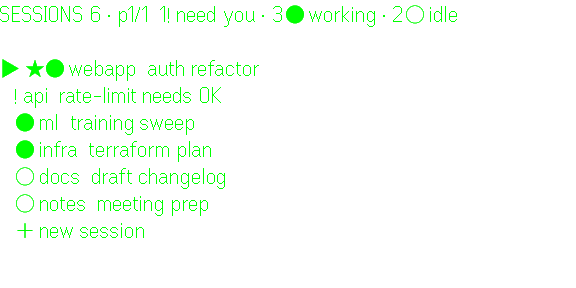
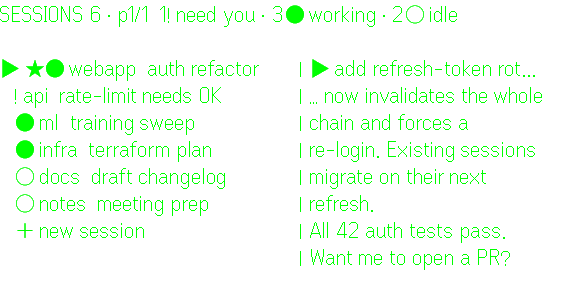
v1.0.39: preview the highlighted session beside the list
The list screen now uses the empty right half of the display: a second,
overlapping text column shows the highlighted session's last prompt and the
end of its reply (or "needs you" for a waiting session). List rows are
clipped to make room.

- AppGlasses: columns [{0,576},{300,276}]; column 2 carries only the list
  preview and is blanked on every other screen and while asleep, because
  even-toolkit's updateColumns only writes the entries it is given.
- store: per-session preview cache on the existing conversation endpoint
  (etag), fetched once the swipes settle (600 ms, longer than even-toolkit's
  350 ms same-direction debounce) and re-checked on each list poll; only
  while the list is showing and only for a session that is on it. No backend
  change.
- store: the list selection is now fully store-owned (listSel + listPos,
  reconciled whenever the pane list changes).
- Fix: the working indicator used U+22EF, which is not in the G2 font and
  drew blank; it is now the same filled dot the list uses.
- Screenshot script and demo data updated; store screenshots regenerated.

Claude-Session: https://claude.ai/code/session_01LxitKjonN8hwyjPFyqMhJr

diff --git a/glasses/src/store.ts b/glasses/src/store.ts
@@ -3,7 +3,7 @@
 //   view (scroll live pane, or MENU mode if the pane is asking) -> listening (mic) -> confirm (send).
 import { listPanes, paneScreen, paneConversation, streamPane, sendToPane, sendKeys, translate, transcribe, resolveFolder, newSession, listWindows, health, type Pane, type Turn } from './api'
 import { GlassBridgeSource } from 'even-toolkit/stt'
-import { getTextWidth } from 'even-toolkit/pretext'
+import { getTextWidth, truncateGlassText } from 'even-toolkit/pretext'
 import { getIdleSleepSec, getWakeOnChange, isConfigured, getPins, setPins } from './config'
 
 export type Phase = 'view' | 'listening' | 'confirm'
@@ -21,6 +21,8 @@ export interface AppState {
   loading: boolean
   error: string | null
   listSel: string   // highlighted list row, by pane id (see listRow); '' = none yet -> the top row at launch
+  listPos: number   // the row it was last on — where the highlight stays if that session disappears
+  preview: string[] // the highlighted session's latest exchange, shown beside the list (pre-wrapped)
   activePaneN: string | null
   activeLabel: string
   activeIsClaude: boolean
@@ -61,7 +63,7 @@ export interface AppState {
 }
 
 let state: AppState = {
-  panes: [], loading: true, error: null, listSel: '',
+  panes: [], loading: true, error: null, listSel: '', listPos: 0, preview: [],
   activePaneN: null, activeLabel: '', activeIsClaude: false, activeCwd: '',
   lines: [], menu: null, menuPhase: 'read', menuBody: [], menuScroll: 0, menuFreeText: false, scroll: 0, atBottom: true, working: false, activity: '', voiceOn: true, voiceChecked: [], asleep: false,
   phase: 'view', draft: '', draftKind: null, busy: false, status: '', typingText: '', draftLines: [], confirmScroll: 0, lastCost: 0, totalCost: 0,
@@ -95,13 +97,74 @@ export function idleTick() {
 // session between the swipe that highlights it and the tap that opens it.
 const NEW_ROW = '+'  // pseudo-id of the "＋ new session" row (always last)
 export function listRows(s: AppState): string[] { return [...s.panes.map((p) => p.n), NEW_ROW] }
-// Row of the anchored selection. If that session is gone (or nothing is chosen yet), stay at
-// `fallback` — the row the highlight was last on.
-export function listRow(s: AppState, fallback = 0): number {
+// Row of the anchored selection. If that session is gone (or nothing is chosen yet), stay on the
+// row the highlight was last on.
+export function listRow(s: AppState): number {
   const rows = listRows(s), i = rows.indexOf(s.listSel)
-  return i >= 0 ? i : Math.max(0, Math.min(fallback, rows.length - 1))
+  return i >= 0 ? i : Math.max(0, Math.min(s.listPos, rows.length - 1))
 }
-export function selectRow(n: string) { if (n !== state.listSel) set({ listSel: n }) }
+export function selectRow(n: string) {
+  if (n !== state.listSel) set({ listSel: n, listPos: Math.max(0, listRows(state).indexOf(n)) })
+  showPreview()
+}
+// A new pane list: keep the selection on a row that exists — the same session if it is still
+// listed, else whatever now sits on the row it was on — so `listSel` always names the highlighted
+// row (the preview and the pin menu act on it). With no sessions yet it stays unset, so the list
+// still opens on the first session when they arrive.
+function withSel(panes: Pane[]): Partial<AppState> {
+  const rows = [...panes.map((p) => p.n), NEW_ROW]
+  let i = rows.indexOf(state.listSel)
+  if (i < 0) { if (!panes.length) return { panes }; i = Math.max(0, Math.min(state.listPos, rows.length - 1)) }
+  return { panes, listSel: rows[i], listPos: i }
+}
+
+// --- list preview: the highlighted session's latest exchange, drawn beside the list ---
+// Shown from a per-session cache at once, then re-checked (cheap: etag) once the swipes settle and
+// on every list poll. The settle delay is longer than the fastest swipe cadence (even-toolkit drops
+// same-direction repeats inside 350ms), so scrolling down the list costs one request, not one per row. Frontend-only — it reuses the conversation endpoint, so no backend update.
+const PREVIEW_PX = 236  // text width of the preview column (screens.ts listPreview / AppGlasses columns)
+const PREVIEW_ROWS = 8  // the lines beside the list rows, under the header
+const NO_PREVIEW: string[] = []
+const previewCache = new Map<string, { etag: string | null; lines: string[] }>()
+let previewTimer: ReturnType<typeof setTimeout> | null = null
+// The prompt (one clipped line), then the END of the reply to it — where the session stands now,
+// which is what you triage on (a finished session's conclusion, or its question to you).
+function previewOf(turns: Turn[], working: boolean): string[] {
+  let u = -1
+  for (let i = turns.length - 1; i >= 0; i--) if (turns[i].role === 'user') { u = i; break }
+  const head = u >= 0 ? [truncateGlassText('▶ ' + turns[u].text.split('\n')[0], PREVIEW_PX)] : []
+  const paras = turns.slice(u + 1).filter((t) => t.role === 'assistant').flatMap((t) => t.text.split('\n')).filter((l) => l.trim())
+  if (working) paras.push('● working…')
+  // Fill the space from the END of the reply: whole paragraphs while they fit, then the tail of the
+  // next one, marked … so it doesn't read as the start of a sentence.
+  const room = PREVIEW_ROWS - head.length
+  let reply: string[] = []
+  for (const para of paras.reverse()) {
+    const w = wrapPx(para, '', PREVIEW_PX), free = room - reply.length
+    if (w.length <= free) { reply = [...w, ...reply]; continue }
+    if (free > 0) { const tail = w.slice(-free); tail[0] = '… ' + tail[0]; reply = [...tail, ...reply] }
+    break
+  }
+  return [...head, ...reply]
+}
+function showPreview() {
+  const n = state.listSel
+  const lines = previewCache.get(n)?.lines ?? NO_PREVIEW
+  if (lines !== state.preview) set({ preview: lines })
+  if (previewTimer) clearTimeout(previewTimer)
+  // only while the list is on screen, and only for a session that is on it (a request for a pane
+  // that is gone would return a 4xx)
+  if (!isConfigured() || state.activePaneN || state.asleep || !state.panes.some((p) => p.n === n)) return
+  const gen = fleetGen
+  previewTimer = setTimeout(() => {
+    paneConversation(n, previewCache.get(n)?.etag).then((r) => {
+      if (r.notModified || gen !== fleetGen) return
+      const lines = previewOf(r.turns, r.working)
+      previewCache.set(n, { etag: r.etag, lines })
+      if (state.listSel === n) set({ preview: lines })
+    }).catch(() => {})
+  }, 600)
+}
 
 const ORDER: Record<string, number> = { waiting: 0, working: 1, done: 2, idle: 3, other: 4 }
 // Panes that went working -> idle and haven't been opened yet: they stay pinned in a top "done"
@@ -134,7 +197,7 @@ export function togglePin(n: string) {
 function repaintPanes() {
   const panes = decorateAndSort(state.panes)
   const sig = JSON.stringify(panes)
-  if (sig !== lastPanesSig) { lastPanesSig = sig; set({ panes }) }
+  if (sig !== lastPanesSig) { lastPanesSig = sig; set(withSel(panes)) }
 }
 let fleetGen = 0 // bumped on a backend switch so an in-flight poll from the OLD source is discarded
 export async function refresh() {
@@ -148,6 +211,7 @@ export async function refresh() {
     if (gen !== fleetGen) return // source changed while this poll was in flight -> stale namespace
     const present = new Set(raw.map((p) => p.n))
     for (const n of finished) if (!present.has(n)) finished.delete(n)  // pane gone -> drop the mark
+    for (const n of previewCache.keys()) if (!present.has(n)) previewCache.delete(n)
     for (const p of raw) {
       if (prevStatus.get(p.n) === 'working' && p.status === 'idle') finished.add(p.n)  // just finished -> pin as "done"
       else if (p.status !== 'idle') finished.delete(p.n)                                // re-activated -> no longer "done"
@@ -159,9 +223,10 @@ export async function refresh() {
     prevStatus = new Map(raw.map((p) => [p.n, p.status]))
     const panes = decorateAndSort(raw)
     const sig = JSON.stringify(panes)
-    if (sig !== lastPanesSig) { lastPanesSig = sig; set({ panes, loading: false, error: null }) }  // skip identical re-push
+    if (sig !== lastPanesSig) { lastPanesSig = sig; set({ ...withSel(panes), loading: false, error: null }) }  // skip identical re-push
     else if (state.loading || state.error) set({ loading: false, error: null })
     health().then((h) => set({ voiceOn: h.voice, voiceChecked: h.checked || [] })).catch(() => {})
+    showPreview()  // keep the highlighted session's preview current
   } catch (e) { if (gen === fleetGen) set({ loading: false, error: String(e) }) }
 }
 
@@ -298,19 +363,19 @@ function cleanLines(raw: string[]): string[] {
 // so the firmware re-wrapped it on screen, leaving a stray short remainder ("wrapped early
 // sometimes"). 548 matches the answer view's proven-good option width and keeps a safe margin.
 const WRAP_PX = 548
-function wrapPx(line: string, indent = ''): string[] {
-  if (getTextWidth(line) <= WRAP_PX) return [line]
+function wrapPx(line: string, indent = '', width = WRAP_PX): string[] {
+  if (getTextWidth(line) <= width) return [line]
   const out: string[] = []
   let cur = ''
   for (const w of line.split(' ')) {
     const trial = cur === '' ? w : cur + ' ' + w
-    if (getTextWidth(trial) <= WRAP_PX) { cur = trial; continue }
+    if (getTextWidth(trial) <= width) { cur = trial; continue }
     if (cur !== '') out.push(cur)
-    if (getTextWidth(indent + w) > WRAP_PX) {
+    if (getTextWidth(indent + w) > width) {
       let r = indent + w
-      while (getTextWidth(r) > WRAP_PX) {
+      while (getTextWidth(r) > width) {
         let lo = 1, hi = r.length, k = 1
-        while (lo <= hi) { const mid = (lo + hi) >> 1; if (getTextWidth(r.slice(0, mid)) <= WRAP_PX) { k = mid; lo = mid + 1 } else hi = mid - 1 }
+        while (lo <= hi) { const mid = (lo + hi) >> 1; if (getTextWidth(r.slice(0, mid)) <= width) { k = mid; lo = mid + 1 } else hi = mid - 1 }
         out.push(r.slice(0, k)); r = indent + r.slice(k)
       }
       cur = r
@@ -403,7 +468,7 @@ function buildView() {
   const raw = [...convoLines]
   if (state.working) {
     if (raw.length) raw.push('')
-    raw.push(...wrapPx(state.activity ? '⋯ ' + state.activity : '⋯ working…'))
+    raw.push(...wrapPx(state.activity ? '● ' + state.activity : '● working…'))  // ● = working, as in the list (⋯ is not in the G2 font)
   }
   const lines = raw.length ? raw : ['(no replies yet)']
   const ms = maxScroll(lines.length, VIEW_SLOTS)
@@ -559,6 +624,7 @@ export function closePane() {
     if (finished.delete(state.activePaneN)) repaintPanes()
   }
   closeStream(); stopAnswers(); stopMic(); set({ activePaneN: null, phase: 'view' })
+  showPreview()  // back on the list: show what the session we just left says now
 }
 
 // Switching backend (tmux <-> herdr) changes the pane-id namespace, so the open pane view, the
@@ -571,8 +637,9 @@ export function resetForSourceChange() {
   finished.clear()
   prevStatus = new Map()
   paneMem.clear()
+  previewCache.clear()
   lastPanesSig = ''
-  set({ panes: [], loading: true, error: null, listSel: '' })
+  set({ panes: [], loading: true, error: null, listSel: '', listPos: 0, preview: NO_PREVIEW })
   refresh()
 }
 
@@ -796,7 +863,7 @@ export async function sendNow() {
   try {
     await sendToPane(n, state.draft, true)
     // "working…" only applies to a Claude pane (it's processing your prompt); a shell pane has no such
-    // state, so setting working:true + buildView would clobber its live screen with a permanent '⋯'.
+    // state, so setting working:true + buildView would clobber its live screen with a permanent '● working…'.
     const claude = state.activeIsClaude
     set({ phase: 'view', atBottom: true, working: claude, busy: false, status: '', draft: '', draftKind: null })
     if (claude) buildView()

diff --git a/glasses/src/screens.ts b/glasses/src/screens.ts
@@ -40,6 +40,9 @@ export interface Ctx {
 
 const GLYPH: Record<string, string> = { waiting: '!', working: '●', idle: '○', other: '·' }
 const PIN = '★'  // marks a pinned session (list row + open-session header)
+// The list screen is two columns sharing the display: rows on the left (clipped to LIST_PX), a preview
+// of the highlighted session on the right (AppGlasses `columns` puts it at x=300; store PREVIEW_PX).
+const LIST_PX = 286
 const clip = (s: string, n: number) => (s.length <= n ? s : s.slice(0, n - 1) + '…')
 const DETAIL_SLOTS = 9
 const VIEW_SLOTS = 9  // conversation/shell view: header (with scroll/position) + 9 content, no footer (must match store VIEW_SLOTS)
@@ -111,7 +114,7 @@ const listScreen: GlassScreen<AppState, Ctx> = {
     // Sessions first (pinned ★ band on top, then by status); "＋ new session" is the LAST row. So the
     // list opens on the session that most needs you, and new-session is one swipe up (the list wraps).
     const items: (Pane | null)[] = [...s.panes, null]
-    const hi = listRow(s, nav.highlightedIndex)
+    const hi = listRow(s)
     const VIS = 8
     const pages = Math.max(1, Math.ceil(items.length / VIS))
     const page = Math.min(pages, Math.floor(hi / VIS) + 1)
@@ -119,11 +122,11 @@ const listScreen: GlassScreen<AppState, Ctx> = {
       items,
       highlightedIndex: hi,
       maxVisible: VIS,
-      // tag (project) first — it's the disambiguator across ~35 sessions; only the long title clips.
-      // ▶ marks the selected row by TEXT (columns page mode flattens the line highlight style); the
-      // 3-space else keeps rows aligned. Marker is inside truncateGlassText so width still fits ~568px.
+      // tag (project) first — it's the disambiguator across ~35 sessions; only the long title clips
+      // (to LIST_PX, leaving the right side for the preview). ▶ marks the selected row by TEXT (columns
+      // page mode flattens the line highlight style); the 3-space else keeps rows aligned.
       formatter: (it, i) =>
-        truncateGlassText(`${i === hi ? '▶ ' : '   '}${it ? `${it.pinned ? PIN : ''}${it.done ? '»' : (GLYPH[it.status] ?? '·')} ${it.tag}  ${it.label}` : '＋ new session'}`),
+        truncateGlassText(`${i === hi ? '▶ ' : '   '}${it ? `${it.pinned ? PIN : ''}${it.done ? '»' : (GLYPH[it.status] ?? '·')} ${it.tag}  ${it.label}` : '＋ new session'}`, LIST_PX),
     })
     // The header must stay ONE line (a wrapped header pushes the list past the 10-line screen): with
     // every count in double digits the full bar is ~600px, so drop the least urgent counts to fit.
@@ -138,7 +141,7 @@ const listScreen: GlassScreen<AppState, Ctx> = {
     // unconfigured app off the network (a tap used to start the new-session flow and fetch).
     if (!isConfigured() || s.loading || s.error) return nav
     // the highlight is anchored to a session id (store.listSel), so resolve the row from that
-    const rows = listRows(s), hi = listRow(s, nav.highlightedIndex)
+    const rows = listRows(s), hi = listRow(s)
     if (a.type === 'HIGHLIGHT_MOVE') {
       // wrap around: swipe up from the first row jumps to the last, and vice versa —
       // the fast way to reach the far end of a long fleet without a page-jump gesture.
@@ -154,6 +157,17 @@ const listScreen: GlassScreen<AppState, Ctx> = {
     }
     return nav
   },
+}
+
+// The second column: a preview of the highlighted session beside the list rows. Both columns share
+// the display, so EVERY other screen must send a blank here or the last preview stays drawn over it.
+export function listPreview(s: AppState, screen: string): string {
+  if (screen !== 'list' || !isConfigured() || s.loading || s.error) return ' '
+  const p = s.panes[listRow(s)]
+  const body = !p ? ['Start a new Claude session', 'in a project folder.']
+    : [...(p.status === 'waiting' ? ['! needs you — tap to read'] : []), ...s.preview]
+  // two blank lines keep it clear of the header + rule, which run the full width
+  return ['', '', ...body.slice(0, 8).map((l) => '| ' + l)].join('\n')
 }
 
 const detailScreen: GlassScreen<AppState, Ctx> = {
@@ -245,7 +259,7 @@ const detailScreen: GlassScreen<AppState, Ctx> = {
     const win = s.lines.slice(top, top + slots)
     const up = top > 0 ? '▲' : ' '
     const dn = top + slots < s.lines.length ? '▼' : ' '
-    const wk = s.working ? ' ⋯' : ''
+    const wk = s.working ? ' ●' : ''  // ● = working, as in the list (⋯ is not in the G2 font, it drew blank)
     const talk = s.voiceOn ? 'tap=talk' : 'tap=type'
     const pos = s.lines.length > slots ? ` ${Math.min(top + slots, s.lines.length)}/${s.lines.length}` : ''
     const head = s.status ? `${title}  ${s.status}` : `${title}${wk}  ${up}${dn}${pos}  ${talk}`

diff --git a/glasses/src/AppGlasses.tsx b/glasses/src/AppGlasses.tsx
@@ -10,7 +10,7 @@ import {
   startNewSession, moveNewTag, chooseNewTag, stopNewTagVoice, stopNewVoice, retryNewVoice, createNewSession, cancelNewSession,
   type AppState,
 } from './store'
-import { router, type Ctx } from './screens'
+import { router, listPreview, type Ctx } from './screens'
 import { line, type GlassNavState } from 'even-toolkit/types'
 
 // root double-tap -> hand off to the foreground layer's system exit dialog (exitMode 1)
@@ -48,7 +48,7 @@ let lastNav: GlassNavState = { screen: 'list', highlightedIndex: 0 }
 function pinFromMenu() {
   const s = getSnapshot()
   noteActivity()
-  const n = s.activePaneN ?? (lastNav.screen === 'list' ? listRows(s)[listRow(s, lastNav.highlightedIndex)] : '')
+  const n = s.activePaneN ?? (lastNav.screen === 'list' ? listRows(s)[listRow(s)] : '')
   if (n) togglePin(n)
 }
 
@@ -87,10 +87,12 @@ export function App() {
   useGlasses<AppState>({
     appName: 'G2C',
     getSnapshot,
-    columns: [{ x: 0, w: 576 }], // single full-width column => flush-left, no 2-space prefix
+    // column 1 = the whole screen (flush-left, no 2-space prefix); column 2 overlaps its right side
+    // and carries only the list's preview (blank on every other screen — see listPreview).
+    columns: [{ x: 0, w: 576 }, { x: 300, w: 276 }],
     // asleep -> push a blank (single space) so the HUD goes dark; wake on the next gesture.
     toDisplayData: (s, nav) => (s.asleep ? { lines: [line(' ', 'meta')] } : router.toDisplayData(s, nav)),
-    toColumns: (s, nav) => (s.asleep ? { columns: [' '] } : { columns: [router.toDisplayData(s, nav).lines.map((l) => l.text).join('\n')] }),
+    toColumns: (s, nav) => (s.asleep ? { columns: [' ', ' '] } : { columns: [router.toDisplayData(s, nav).lines.map((l) => l.text).join('\n'), listPreview(s, nav.screen)] }),
     onGlassAction: (a, nav, s) => {
       const wasAsleep = getSnapshot().asleep
       noteActivity()              // any gesture resets the idle timer (and wakes a sleeping HUD)

diff --git a/glasses/src/Setup.tsx b/glasses/src/Setup.tsx
@@ -131,7 +131,7 @@ export function Setup({ onSave }: { onSave: () => void }) {
       <details style={{ marginTop: 14 }}>
         <summary style={summary}>How to use the glasses</summary>
         <ul style={{ margin: 0, paddingLeft: 18, color: '#b9d8c6', fontSize: 13, lineHeight: 1.6 }}>
-          <li><b>Session list</b> — swipe to move, tap to open, double-tap to exit. ★ sessions stay on top; “＋ new session” is the last row (swipe up from the top).</li>
+          <li><b>Session list</b> — swipe to move, tap to open, double-tap to exit. The right side previews the highlighted session. ★ sessions stay on top; “＋ new session” is the last row (swipe up from the top).</li>
           <li><b>In a session</b> — swipe to scroll, tap to reply (speak, or type here), double-tap to go back.</li>
           <li><b>When it asks you something</b> — read it, tap, swipe to your answer, tap to choose.</li>
           <li><b>Pin / unpin</b> — tap ★ above. Or on the glasses: highlight it in the session list, tap then press-and-hold to open the menu, and choose “Pin / unpin session”.</li>

diff --git a/tools/screenshot-mock.py b/tools/screenshot-mock.py
@@ -15,7 +15,7 @@ PANES = [
 ]
 CONVO = {"turns":[
     {"role":"user","text":"add refresh-token rotation"},
-    {"role":"assistant","text":"Added rotation: every refresh issues a new refresh token and revokes the previous one, so a stolen token is single-use. Reuse of a revoked token now invalidates the whole chain and forces a re-login. Existing sessions migrate on their next refresh."},
+    {"role":"assistant","text":"Added rotation: every refresh issues a new refresh token and revokes the previous one, so a stolen token is single-use. Reuse of a revoked token now invalidates the whole chain and forces a re-login. Existing sessions migrate on their next refresh.\n\nAll 42 auth tests pass. Want me to open a PR?"},
 ], "working":False, "etag":"demo1", "notModified":False}
 # a pane sitting at a Bash permission prompt (for the read-before-approve screenshot)
 MENU_SCREEN = ("● Bash(npm run deploy -- --env=staging)\n  ⎿ building...\n"

diff --git a/CHANGELOG.md b/CHANGELOG.md
@@ -6,6 +6,16 @@ project memory; this file is the short "what changed" for each build.
 > Builds: G2C ships as a single **public** `.ehpk` — it bakes no secrets, so every user
 > enters their own backend URL + token on the app's Setup screen.
 
+## 1.0.39 — 2026-10-09
+- **Preview beside the list.** The right half of the session list now shows the highlighted
+  session's latest exchange — your last prompt and the end of the reply — so you can tell what a
+  session is doing, or what it concluded, without opening it. A session that needs you says so.
+  Session names are clipped to make room. It appears once your swipes settle, so scrolling through
+  the list costs one request rather than one per row, and it needs no backend update.
+- **Fix: the "working" indicator was invisible.** It used a glyph the glasses' font doesn't have,
+  so it drew blank in the session header and on the live activity line. It is now ●, the same
+  mark the list uses for a working session.
+
 ## 1.0.38 — 2026-10-08
 - **New name: G2C** (was TMUXor). Display name only — same app and package id, so it updates in
   place and keeps your settings; the `tmuxor:` setup code from `install.sh` still works.

diff --git a/README.md b/README.md
@@ -84,7 +84,9 @@ replies — everything else happens on the glasses with **three gestures**, reas
   `tag  title` (the tag is the tmux window / Herdr workspace / project). Swipe to scroll
   (**▶** marks the selected row — it follows the session, so a re-sort never moves it onto a
   different one), tap to open. The list opens on the session that most needs you; the last row,
-  **＋ new session**, is one swipe up from the top.
+  **＋ new session**, is one swipe up from the top. The right half of the screen **previews** the
+  highlighted session — your last prompt and the end of its reply — so you can triage without
+  opening each one.
 - **Pinning** — keep the sessions you care about at the top, marked **★**. Tap ★ next to a
   session on your phone. Or on the glasses: highlight it in the session list, **tap then
   press-and-hold** to open the system menu, and choose **Pin / unpin session** (needs Even app

diff --git a/SETUP.md b/SETUP.md
@@ -192,7 +192,8 @@ Three gestures, reassigned per screen (tap = primary, double-tap = back, swipe =
 
 - **Session list** — your sessions, grouped by tmux window / Herdr workspace (the **tag**):
   pinned (**★**) first, then finished (**»**) until you open them. Swipe to move, tap to open,
-  double-tap to exit. The last row is **＋ new session** (one swipe up from the top).
+  double-tap to exit. The last row is **＋ new session** (one swipe up from the top). The right
+  half of the screen previews the highlighted session's last prompt and the end of its reply.
 - **Pin a session** — tap ★ next to it on the phone. Or on the glasses: highlight it in the
   session list, tap then press-and-hold to open the system menu, and choose **Pin / unpin
   session** (Even app 2.2.10+).
